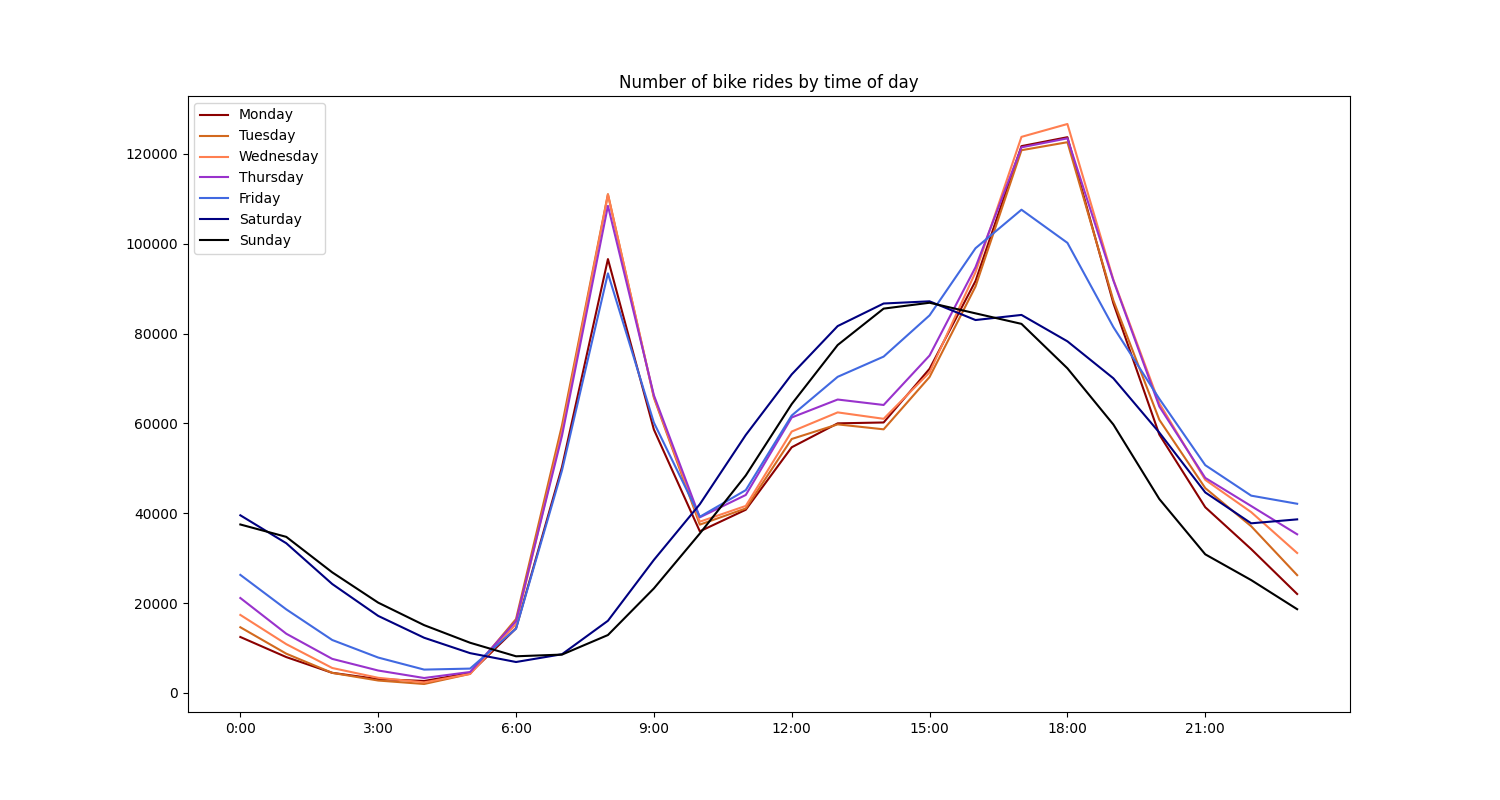
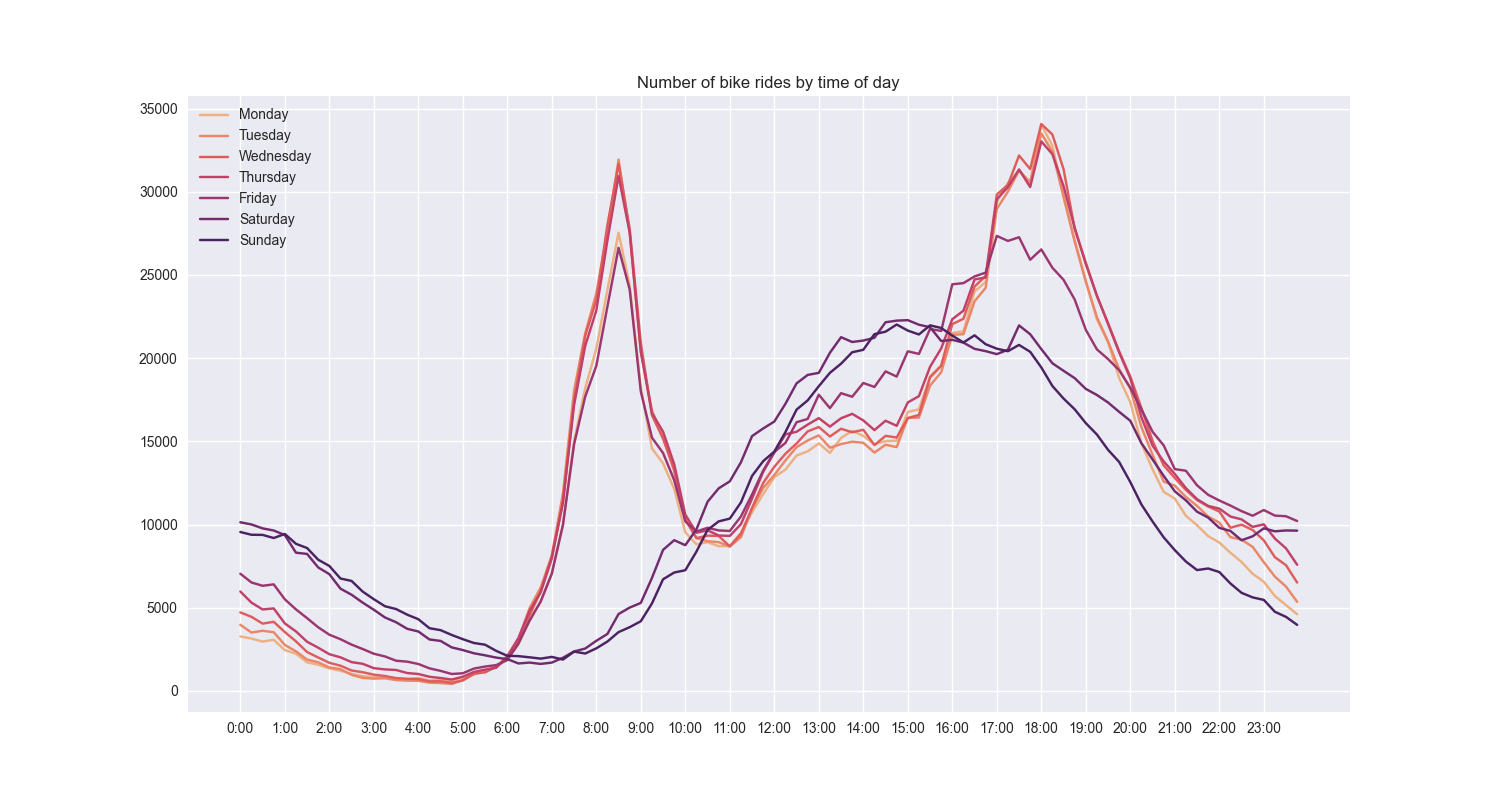
update plot of trips by weekday
- trips in minutes interval, not hourly
- pandas plot

diff --git a/plot_trips_by_weekday.py b/plot_trips_by_weekday.py
@@ -1,48 +1,74 @@
 #%% libs
 import matplotlib.pyplot as plt
 import pandas as pd
+import numpy as np
+import seaborn as sns
 
 #%% read data 
 dat_trips = pd.read_csv('./data/biketrip_data.csv')
 
-#%% transform columns to datetime objects
-dat_trips.date_to = pd.to_datetime(dat_trips.date_to, format = '%Y-%m-%d')
-dat_trips.date_from = pd.to_datetime(dat_trips.date_from, format = '%Y-%m-%d')
+#%% transform column to datetime 
+dat_trips['datetime'] = pd.to_datetime(dat_trips.datetime_from)
 
-#%% 
+#%% drop all columns except datetime 
+dat_trips = dat_trips[['datetime']]
 dat_trips.info(show_counts=True)
 
-#%% add day of the week as column
-dat_trips['weekday'] = dat_trips['date_from'].dt.strftime('%A')
+#%% add columns
+dat_trips['weekday'] = dat_trips.datetime.dt.strftime('%A')
+dat_trips['hour'] = dat_trips.datetime.dt.hour
+dat_trips['min'] = dat_trips.datetime.dt.minute
 
-#%% plot
-dat_plot = dat_trips.groupby('weekday')['hour_from'].value_counts().sort_index().reset_index()
-plot_colors =  {'Monday': 'darkred', 
-                'Tuesday': 'chocolate',
-                'Wednesday': 'coral',
-                'Thursday': 'darkorchid',
-                'Friday': 'royalblue',
-                'Saturday': 'navy',
-                'Sunday': 'black'}
-plt.figure(figsize=(15,8))
-for day in plot_colors.keys():
-    plt.plot(dat_plot[dat_plot['weekday'] == day]['hour_from'], 
-             dat_plot[dat_plot['weekday'] == day]['count'], 
-             label = day,
-             color = plot_colors[day],
-             alpha = 1.0,
-             linestyle = 'solid')   
+#%% calculate intervals
+def calculate_interval(df, minutes_in_interval):
+    return(df['hour'] + np.floor(df['min']/minutes_in_interval)/(60/minutes_in_interval))
+dat_trips['hour_interval'] =  calculate_interval(dat_trips, 60)
 
+#%% compare hourly and 60 minute-interval trip count -> should be the same!!
+dat_plot_hour_interval = dat_trips.groupby('hour_interval').count()[['datetime']]
+dat_plot_hour = dat_trips.groupby('hour').count()[['datetime']]
+plt.plot(dat_plot_hour.index, dat_plot_hour.datetime, label = 'hour')
+plt.plot(dat_plot_hour_interval.index, dat_plot_hour_interval.datetime, label = 'interval_60')
 plt.legend(loc = 'upper left')
-plt.xticks(range(0,23, 3), 
-           list(map(lambda x: str(x) + ':00', 
-                    range(0, 23, 3))),
-           rotation = 0)
-plt.title('Number of bike rides by time of day')
-plt.savefig('./plots/trips_by_weekday.png')
+plt.xticks(ticks = range(0,24, 2), 
+           labels = list(map(lambda x: str(x) + ':00', 
+                    range(0, 24, 2))),
+            rotation = 30)
+plt.title('Hourly bike rides')
 
+#%% plot trips in finer minute windows, grouped by weekdays
+
+# calculate interval in minutes by which to count trips
+dat_trips['interval'] =  calculate_interval(dat_trips, 15)
+
+# data for plot -> possible in one step?
+dat_plot = dat_trips.groupby('weekday')['interval'].value_counts().sort_index().reset_index()
+dat_plot = dat_plot.pivot(index='interval',
+                                 columns='weekday', 
+                                 values='count')
+# reorder columns
+dat_plot = dat_plot[['Monday', 'Tuesday', 'Wednesday', 'Thursday', 'Friday', 'Saturday', 'Sunday']]
+
+# plot and color setting
+plt.style.use('seaborn')
+my_cmap = sns.color_palette(palette="flare", n_colors = 7, as_cmap=True)
+
+# actual plot
+ax = dat_plot.plot(colormap=my_cmap,
+                   title = "Number of bike rides by time of day",
+                   figsize=(15,8))
+
+# set xticks, labels, legend
+ax.set_xticks(ticks = range(0,24, 1), 
+              labels = list(map(lambda x: str(x) + ':00', 
+                            range(0, 24, 1))),
+              rotation = 0)
+ax.set_xlabel("")
+ax.legend(title = None, loc = 'upper left')
+
+# save plot
+plt.savefig('./plots/trips_by_weekday.png')
 
 # %% save plot data to file
 dat_plot.to_csv("./plots/data/trips_weekday/dat_trips_by_weekday.csv",
-                          index=False)
-# %%
+                index=True)
